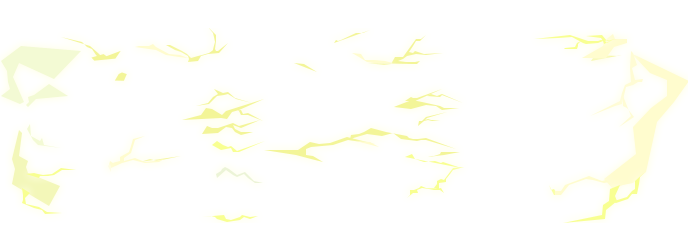
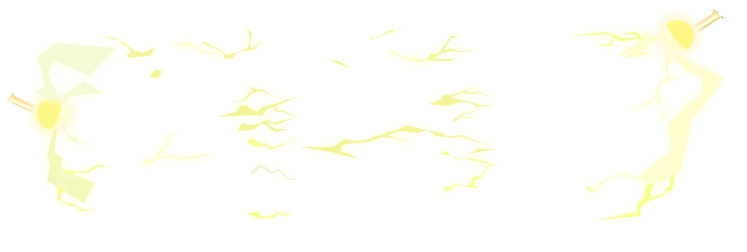
light

diff --git a/src/components/Banner.vue b/src/components/Banner.vue
@@ -1,12 +1,8 @@
 <template>
   <div id="banner">
     <img src="../assets/img/Banner/light.png" class="light" v-show="show">
-    <div class="left-drill">
-      <div class="left-light"></div>
-    </div>
-    <div class="right-drill">
-      <div class="right-light"></div>
-    </div>
+    <div class="left-drill"></div>
+    <div class="right-drill"></div>
     <ul class="time_ul">
       <li class="day" ref="day">{{ d }}</li>
       <li class="hour" ref="hour">{{ h }}</li>
@@ -84,8 +80,8 @@ export default {
   background-size: 1440px;
   .light {
     position: absolute;
-    left: 402px;
-    top: 164px;
+    left: 360px;
+    top: 166px;
     animation: showUp 1s, changeColor 2s infinite 1s;
   }
   @keyframes showUp {

diff --git a/src/components/MyNav/NavLink.vue b/src/components/MyNav/NavLink.vue
@@ -33,7 +33,7 @@ export default {
   .contents {
     .filler-top {
       min-height: 15px;
-      background: #21beff;
+      background: #66b9ff;
     }
     .filler-bottom {
       min-height: 15px;
